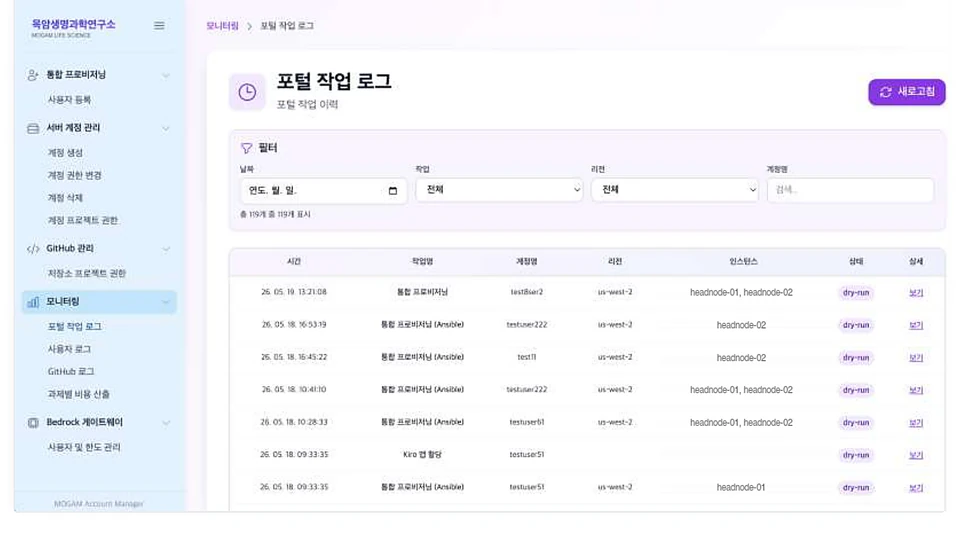
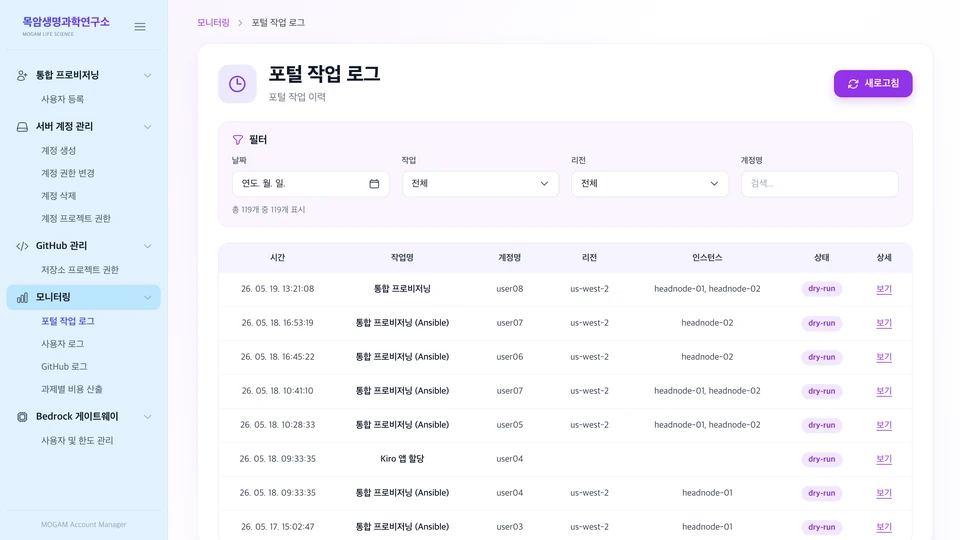
feat(site): 포털·비용 화면 4장을 데모 데이터 재현 화면(2880x1620)으로 교체
- README 슬라이드 원본이 흐려(블록 노이즈) 가림·선명화로는 한계가 있어, 같은 화면을 HTML로 다시 그려 2배 해상도로 캡처
- 통합 프로비저닝·포털 작업 로그·Bedrock 사용자·한도·비용 모니터링: 구성·문구·색은 README 스크린샷 기준, 데이터는 전부 데모값(user01, PRJ-A, headnode-01 등)
- 실제 계정·금액·과제명이 없어 가림 처리 불필요, 그림 설명에 '데모 데이터로 재현한 화면' 표기
- 썸네일 960x540 WebP, 링크 ?v=3 으로 캐시 우회

diff --git a/index.html b/index.html
@@ -607,14 +607,14 @@
             </div>
           </div>
           <div class="arch-figs">
-            <span class="arch-figs__label">아키텍처·대시보드 화면 — 클릭하면 원본이 열립니다 · 금액과 과제명은 가렸습니다</span>
+            <span class="arch-figs__label">아키텍처·대시보드 화면 — 클릭하면 원본이 열립니다 · 대시보드는 데모 데이터로 재현한 화면입니다</span>
             <div class="arch-figs__row">
               <a class="arch-fig" href="assets/arch/finops-architecture.svg" target="_blank" rel="noopener">
                 <img src="assets/arch/finops-architecture.svg" alt="과제별 비용 정산 아키텍처 — 수집 에이전트·CUR·S3 Inventory를 Glue·Athena로 결합하고 Flask 배분 엔진과 React 대시보드로 제공, 배분 로직 4단계" loading="lazy" decoding="async">
                 <span>아키텍처·배분 로직</span>
               </a>
-              <a class="arch-fig" href="assets/arch/finops-cost-dashboard.png?v=2" target="_blank" rel="noopener">
-                <img src="assets/arch/thumb/finops-cost-dashboard.webp?v=2" alt="과제별 비용 대시보드 — 달력·일/월 전환, 과제·사용자·인스턴스별 보기, USD/KRW, 엑셀 다운로드(금액·과제명 가림)" loading="lazy" decoding="async">
+              <a class="arch-fig" href="assets/arch/finops-cost-dashboard.png?v=3" target="_blank" rel="noopener">
+                <img src="assets/arch/thumb/finops-cost-dashboard.webp?v=3" alt="과제별 비용 대시보드 — 달력·일/월 전환, 과제·사용자·인스턴스별 보기, USD/KRW, 엑셀 다운로드(데모 데이터로 재현)" loading="lazy" decoding="async">
                 <span>과제별 비용 대시보드</span>
               </a>
             </div>
@@ -713,18 +713,18 @@
             </div>
           </div>
           <div class="arch-figs">
-            <span class="arch-figs__label">포털 화면 — 클릭하면 원본이 열립니다 · 계정명과 호스트명은 익명으로 바꿨습니다</span>
+            <span class="arch-figs__label">포털 화면 — 클릭하면 원본이 열립니다 · 데모 데이터로 재현한 화면입니다</span>
             <div class="arch-figs__row">
-              <a class="arch-fig" href="assets/arch/portal-onboarding.png?v=2" target="_blank" rel="noopener">
-                <img src="assets/arch/thumb/portal-onboarding.webp?v=2" alt="통합 프로비저닝 — 이메일·서버 계정 매핑, IAM Identity Center 그룹 배치, Dry Run 검증을 한 화면에서 실행" loading="lazy" decoding="async">
+              <a class="arch-fig" href="assets/arch/portal-onboarding.png?v=3" target="_blank" rel="noopener">
+                <img src="assets/arch/thumb/portal-onboarding.webp?v=3" alt="통합 프로비저닝 — 이메일·서버 계정 매핑, IAM Identity Center 그룹 배치, Dry Run 검증을 한 화면에서 실행(데모 데이터로 재현)" loading="lazy" decoding="async">
                 <span>통합 프로비저닝</span>
               </a>
-              <a class="arch-fig" href="assets/arch/portal-action-log.png?v=2" target="_blank" rel="noopener">
-                <img src="assets/arch/thumb/portal-action-log.webp?v=2" alt="포털 작업 로그 — 계정 추가·권한 수정 같은 관리 조작을 dry-run 여부와 함께 이력으로 조회(호스트명은 익명 처리)" loading="lazy" decoding="async">
+              <a class="arch-fig" href="assets/arch/portal-action-log.png?v=3" target="_blank" rel="noopener">
+                <img src="assets/arch/thumb/portal-action-log.webp?v=3" alt="포털 작업 로그 — 계정 추가·권한 수정 같은 관리 조작을 dry-run 여부와 함께 이력으로 조회(데모 데이터로 재현)" loading="lazy" decoding="async">
                 <span>포털 작업 로그</span>
               </a>
-              <a class="arch-fig" href="assets/arch/portal-bedrock-quota.png?v=2" target="_blank" rel="noopener">
-                <img src="assets/arch/thumb/portal-bedrock-quota.webp?v=2" alt="Bedrock 게이트웨이 사용자 관리 — 팀별 사용자의 월 사용량과 한도, 단계 상향(사용자명은 익명 처리)" loading="lazy" decoding="async">
+              <a class="arch-fig" href="assets/arch/portal-bedrock-quota.png?v=3" target="_blank" rel="noopener">
+                <img src="assets/arch/thumb/portal-bedrock-quota.webp?v=3" alt="Bedrock 게이트웨이 사용자 관리 — 팀별 사용자의 월 사용량과 한도, 단계 상향(데모 데이터로 재현)" loading="lazy" decoding="async">
                 <span>Bedrock 사용자·한도 관리</span>
               </a>
             </div>
